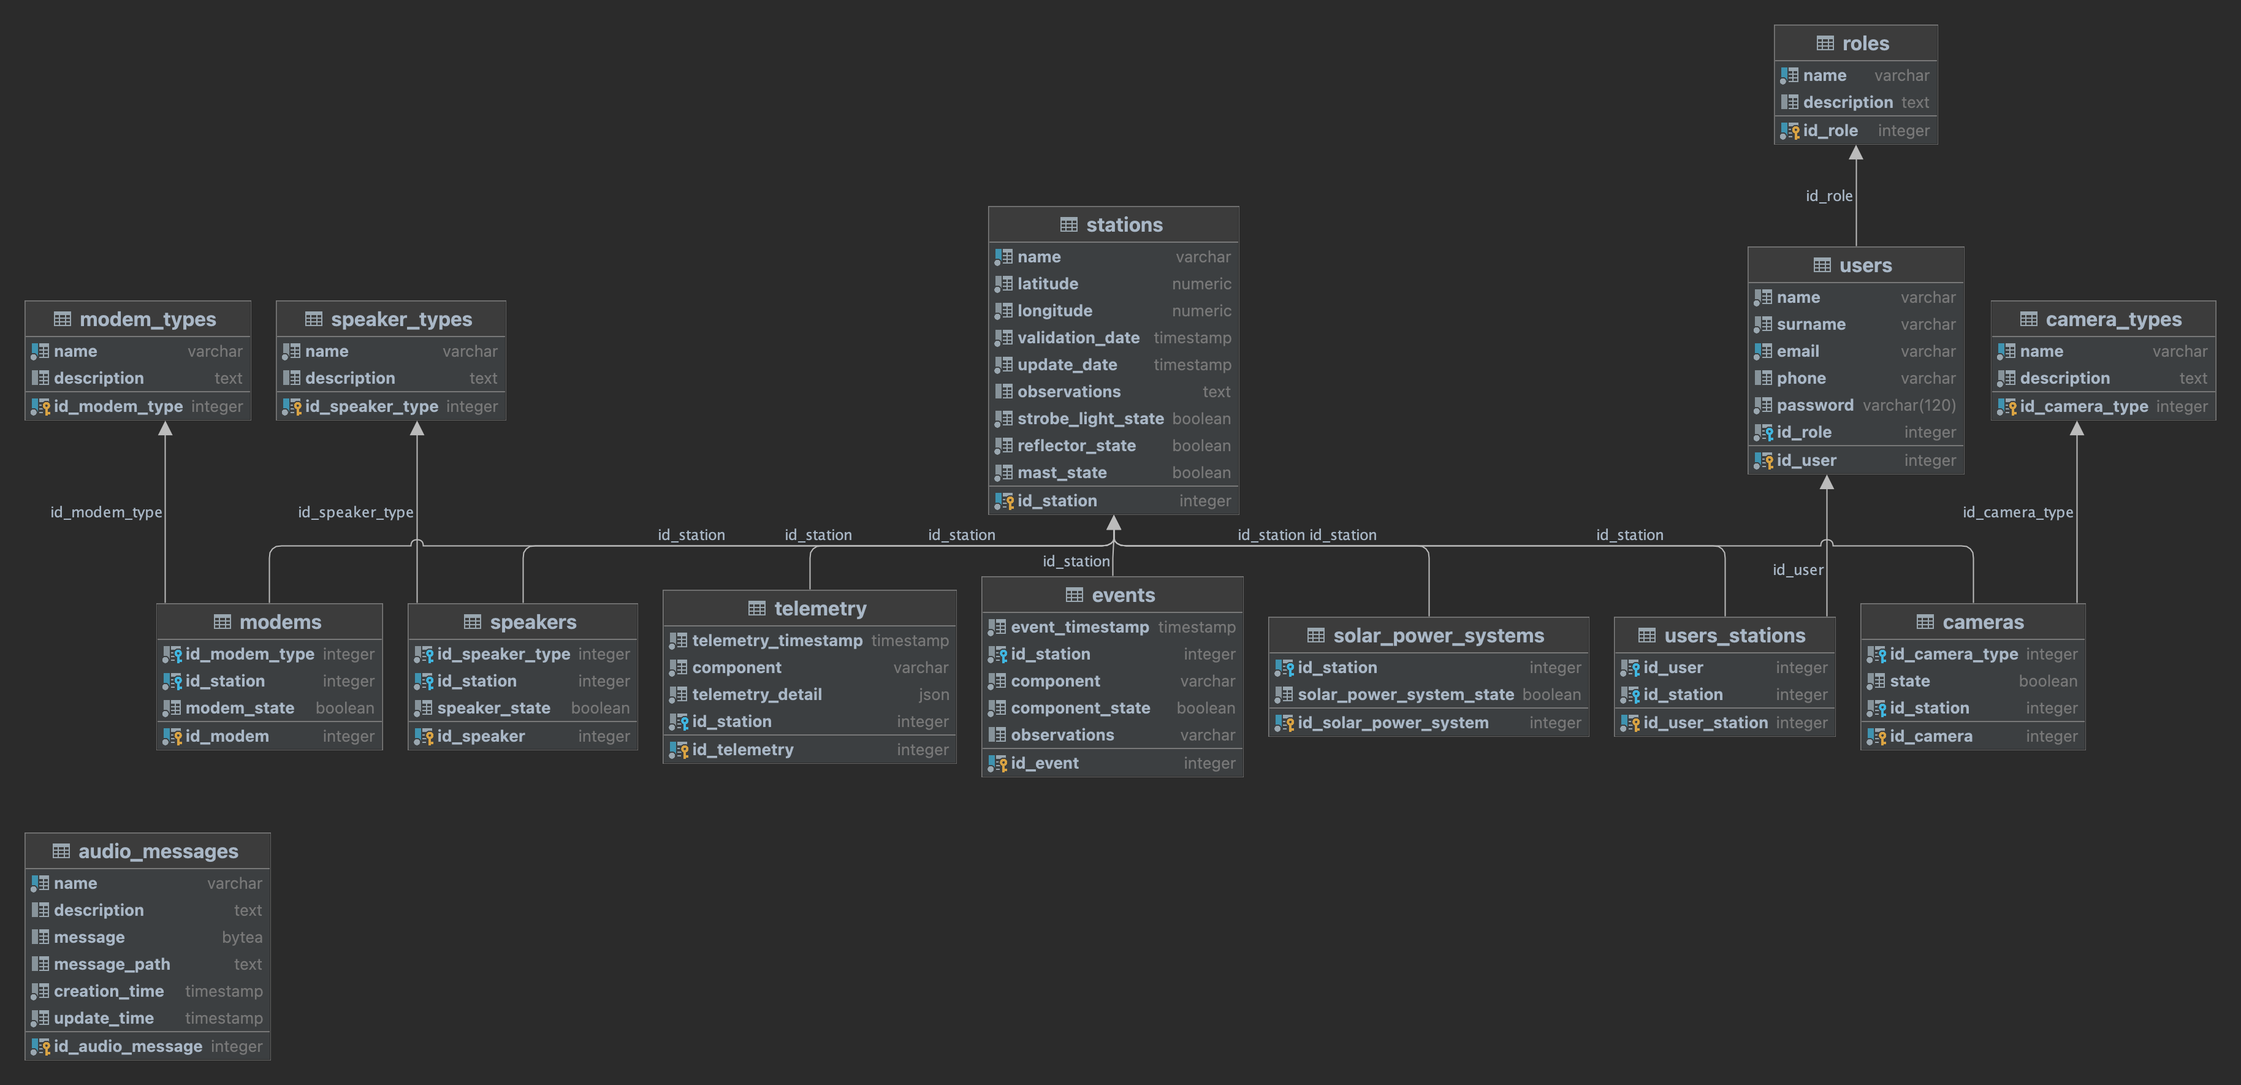
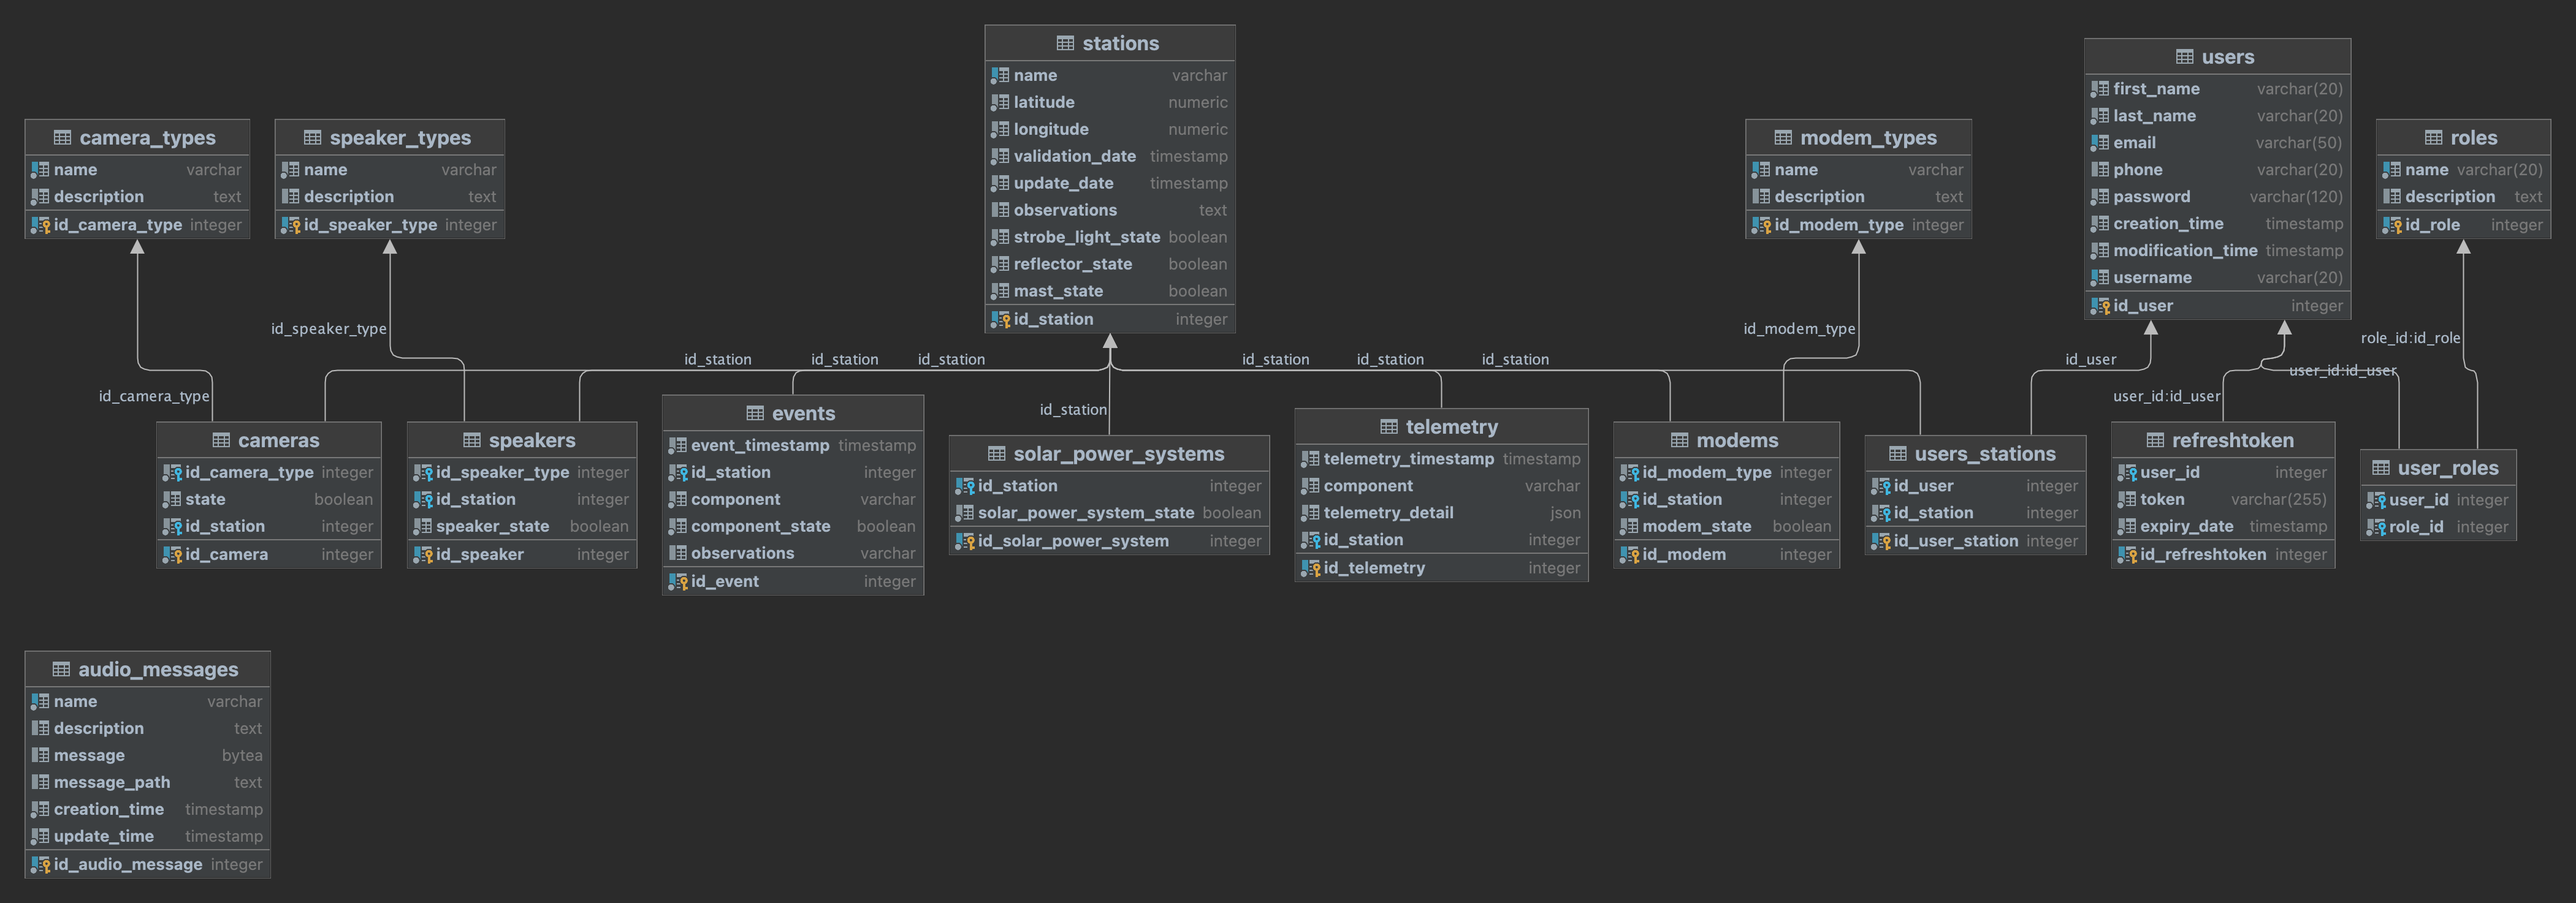
Para esta versión se agregan tablas refreshtoken, user_roles y se modifica relaciones para microservicio de seguridad

diff --git a/readme.md b/readme.md
@@ -34,6 +34,10 @@ Base de datos del proyecto estaciones remotas de seguridad (robocop)
 
 - users: Tabla con los usuarios del sistema
 
+- user_roles: Tabla con relación de roles y usuarios
+
+- refreshtoken: Tabla con token de JWT
+
 - users_stations: Tabla con los permisos de acceso para visualizar información de estaciones en particular para los usuarios generales
 
 **Como Ejecutar**
